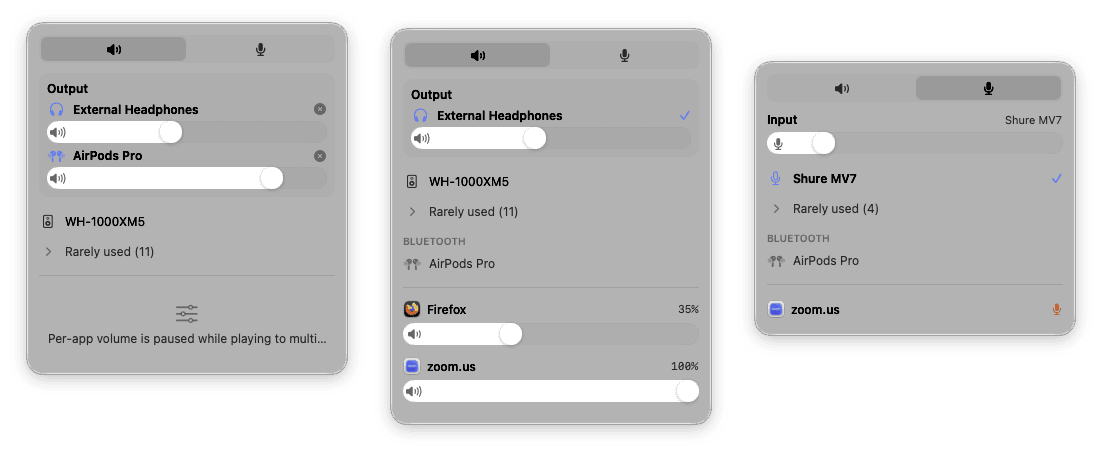
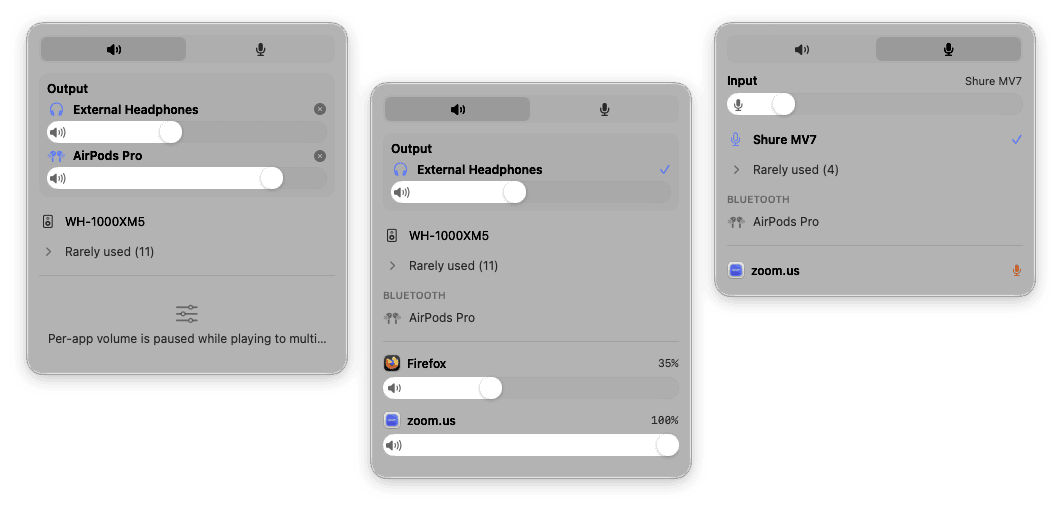
docs: tighten hero gaps, align side popovers on a shared top line

Changed region(s): [[0.0, 0.0308, 0.9944, 0.9538], [0.9011, 0.2462, 0.9633, 0.2769], [0.2175, 0.0923, 0.2486, 0.1231]]

diff --git a/scripts/compose-readme-hero.py b/scripts/compose-readme-hero.py
@@ -14,8 +14,8 @@ import sys
 
 from PIL import Image
 
-GAP = 44  # px between opaque cores
-SIDE_LIFT = 28  # sides sit this much higher than the center
+GAP = 24  # px between opaque cores
+CENTER_DROP = 60  # center core's top sits this far below the sides' shared top line
 MARGIN = 4  # canvas padding beyond the shadows
 
 
@@ -41,11 +41,13 @@ def main():
         core_x.append(x)
         x += (right - left) + GAP
 
-    # Vertical: core centers on a common midline, sides lifted.
-    centers = [-SIDE_LIFT, 0, -SIDE_LIFT]
+    # Vertical: side cores share one top line, the center drops below it —
+    # the rhythm stays fixed no matter how the capture heights differ;
+    # only the bottom edge is ragged, and deliberately so.
+    core_top = [0, CENTER_DROP, 0]
     origins = []
-    for img, (left, top, right, bottom), cx, cy in zip(images, cores, core_x, centers):
-        origins.append((cx - left, cy - (top + bottom) // 2))
+    for img, (left, top, _, _), cx, cy in zip(images, cores, core_x, core_top):
+        origins.append((cx - left, cy - top))
 
     # Shift so the full captures (shadows included) start at MARGIN.
     min_x = min(o[0] for o in origins)